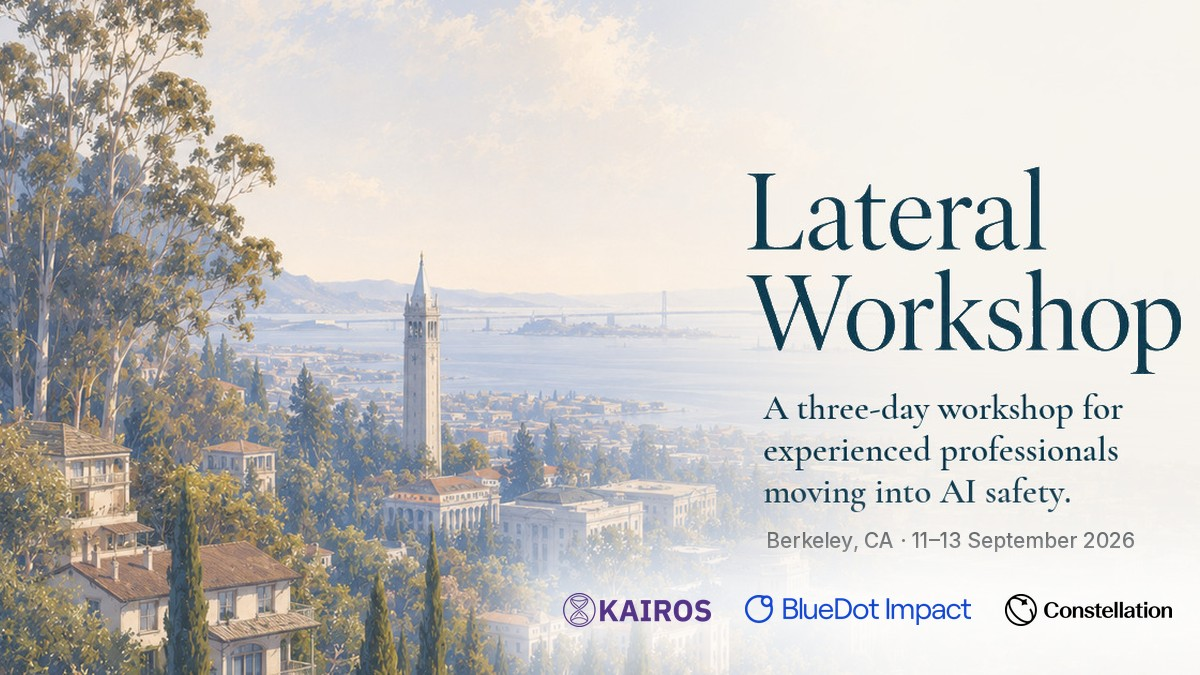
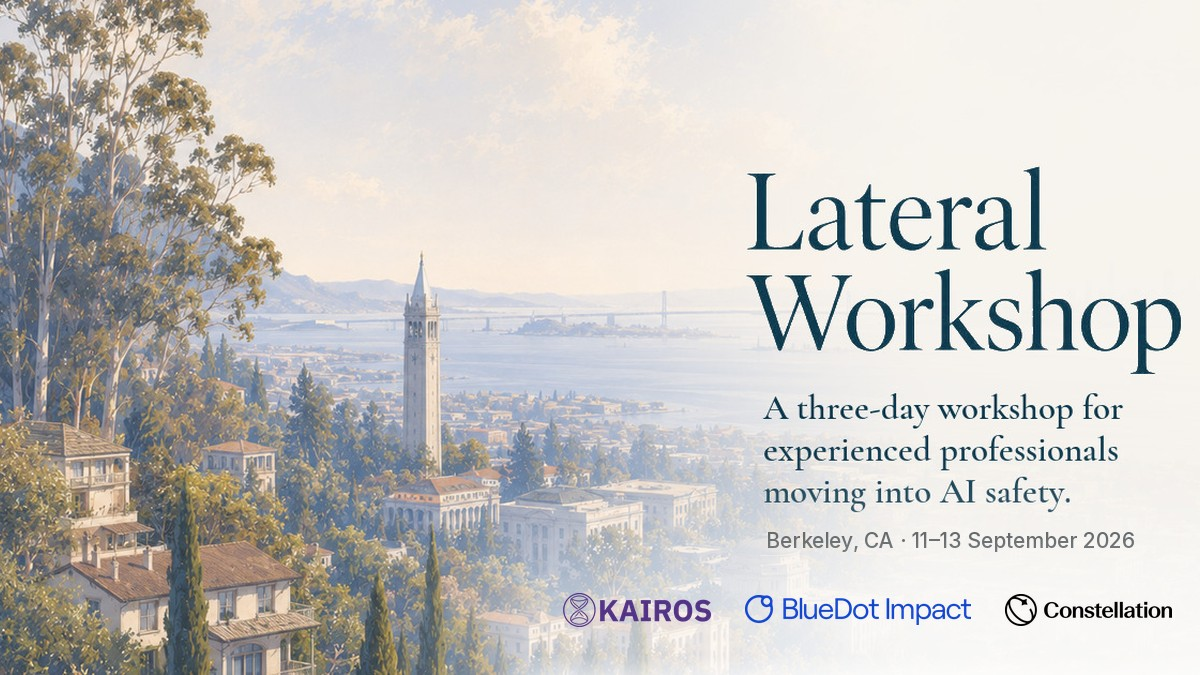
content: Lateral tile — softer underlay fading to white (C8)

Changed region(s): [[0.3392, 0.9022, 0.555, 1.0], [0.4317, 0.84, 0.5858, 0.9333]]

diff --git a/docs/assets/lateral-workshop-tile-candidates/make_logo_tiles_v4.py b/docs/assets/lateral-workshop-tile-candidates/make_logo_tiles_v4.py
@@ -1,0 +1,41 @@
+"""C8: coloured logos (BlueDot #1144cc), bottom right; very soft white underlay that fades to pure white at the bottom edge.
+Usage: uv run --no-project --with pillow python make_logo_tiles_v4.py
+"""
+from PIL import Image, ImageDraw, ImageFilter, ImageChops
+from pathlib import Path
+HERE = Path(__file__).parent
+base = Image.open(HERE.parent / "C-site-og-image.png").convert("RGBA")
+W, H = base.size
+
+def logo(name, h):
+    im = Image.open(HERE / name).convert("RGBA"); im = im.crop(im.getbbox())
+    return im.resize((int(im.width * h / im.height), h), Image.LANCZOS)
+
+def render(underlay_alpha=150, blur=48, bottom_blur=36, out="C8.png"):
+    im = base.copy()
+    logos = [logo("kairos.png", 34), logo("bluedot_blue.png", 30), logo("constellation.png", 32)]
+    gap, right, cy = 34, 1172, 610
+    total = sum(l.width for l in logos) + gap * (len(logos) - 1)
+    x0 = right - total
+    pad = 90
+    # work on a taller canvas so the blur can run off the bottom edge
+    ext = 200
+    big = (W, H + ext)
+    # layer A: soft, semi-transparent underlay around the logo row
+    a = Image.new("L", big, 0)
+    ImageDraw.Draw(a).rounded_rectangle((x0 - pad, cy - 22 - 50, right + pad, H + ext), 60, fill=underlay_alpha)
+    a = a.filter(ImageFilter.GaussianBlur(blur))
+    # layer B: pure white band at the bottom, feathered upwards and at the sides
+    b = Image.new("L", big, 0)
+    ImageDraw.Draw(b).rectangle((x0 - pad + 20, H - 28, right + pad - 20, H + ext), fill=255)
+    b = b.filter(ImageFilter.GaussianBlur(bottom_blur))
+    mask = ImageChops.lighter(a, b).crop((0, 0, W, H))
+    white = Image.new("RGBA", (W, H), (255, 255, 255, 255)); white.putalpha(mask)
+    im = Image.alpha_composite(im, white)
+    x = x0
+    for l in logos:
+        im.alpha_composite(l, (x, cy - l.height // 2)); x += l.width + gap
+    im.convert("RGB").save(HERE / out, optimize=True)
+
+render(out="C8-blue-fade-to-white.png")
+print("done")

diff --git a/docs/assets/lateral-workshop-tile-candidates/README.md b/docs/assets/lateral-workshop-tile-candidates/README.md
@@ -1,9 +1,10 @@
 # Lateral Workshop tile — backup candidates
 
-The live tile (`public/images/lateral-workshop-2026.jpg`) uses variant C7: the
+The live tile (`public/images/lateral-workshop-2026.jpg`) uses variant C8: the
 workshop site's own social preview (Berkeley watercolour + wordmark) with the
 Kairos, BlueDot Impact and Constellation logos in brand colours (BlueDot in its
-button blue from bluedot.org, #1144cc), bottom right, over a wide feathered semi-transparent white glow.
+button blue from bluedot.org, #1144cc), bottom right, over a very soft semi-transparent white underlay that runs into
+pure white at the bottom edge.
 
 These are the other 16:9 candidates prepared on 2026-09-19, kept as backups:
 
@@ -11,6 +12,7 @@ These are the other 16:9 candidates prepared on 2026-09-19, kept as backups:
 - `B-hero-row.jpg` — hero row of five, Jess centre (was the tile in PR #42)
 - `D-split.jpg` — watercolour + wordmark left, 3x3 faces right
 - `C-site-og-image.jpg` — variant C without logos (the tile after PR #43)
+- `C7-blue-more-feathered.jpg` — as C8 but a contained glow, no fade to white at the edge
 - `C4-colour-feathered-bottom.jpg` — as C7 with a tighter feather and BlueDot's dark wordmark
 - `C1-logos-colour-panel.jpg` — brand-colour logos on a crisp cream rounded panel
 - `C5-colour-top-noglow.jpg` — brand-colour logos top right on the sky, no glow
@@ -18,7 +20,7 @@ These are the other 16:9 candidates prepared on 2026-09-19, kept as backups:
 - `C2-logos-mono-panel.jpg` — as C1 but logos recoloured to the site's dark pine
 - `C3-logos-mono-nopanel.jpg` — dark-pine logos straight on the watercolour, no panel
 
-`make_logo_tiles_v3.py` builds C7 (from `bluedot_blue.svg`), `make_logo_tiles_v2.py` builds C4–C6 and `make_logo_tiles.py` builds C1–C3 from `C-site-og-image.png` plus the logo files
+`make_logo_tiles_v4.py` builds C8, `make_logo_tiles_v3.py` builds C7 (from `bluedot_blue.svg`), `make_logo_tiles_v2.py` builds C4–C6 and `make_logo_tiles.py` builds C1–C3 from `C-site-og-image.png` plus the logo files
 here (`kairos.png`, `bluedot_dark.svg`, `constellation.svg`; the SVGs need
 rasterising first, e.g. with cairosvg).
 
